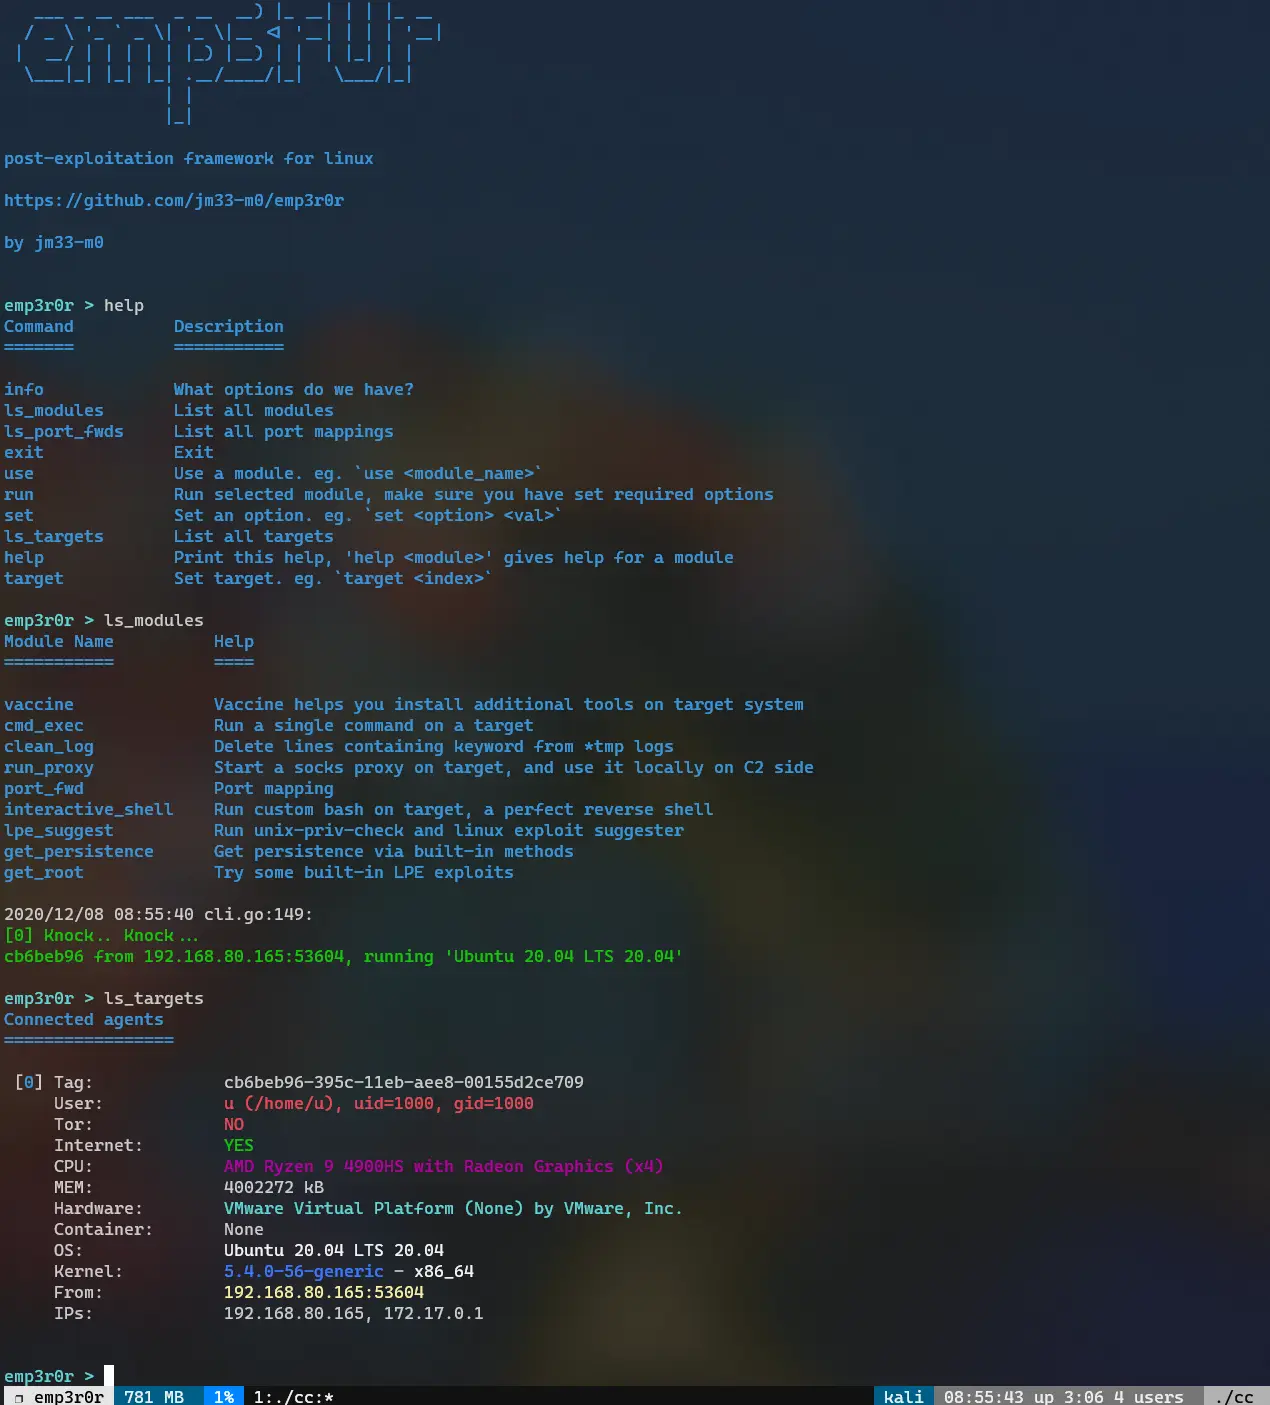
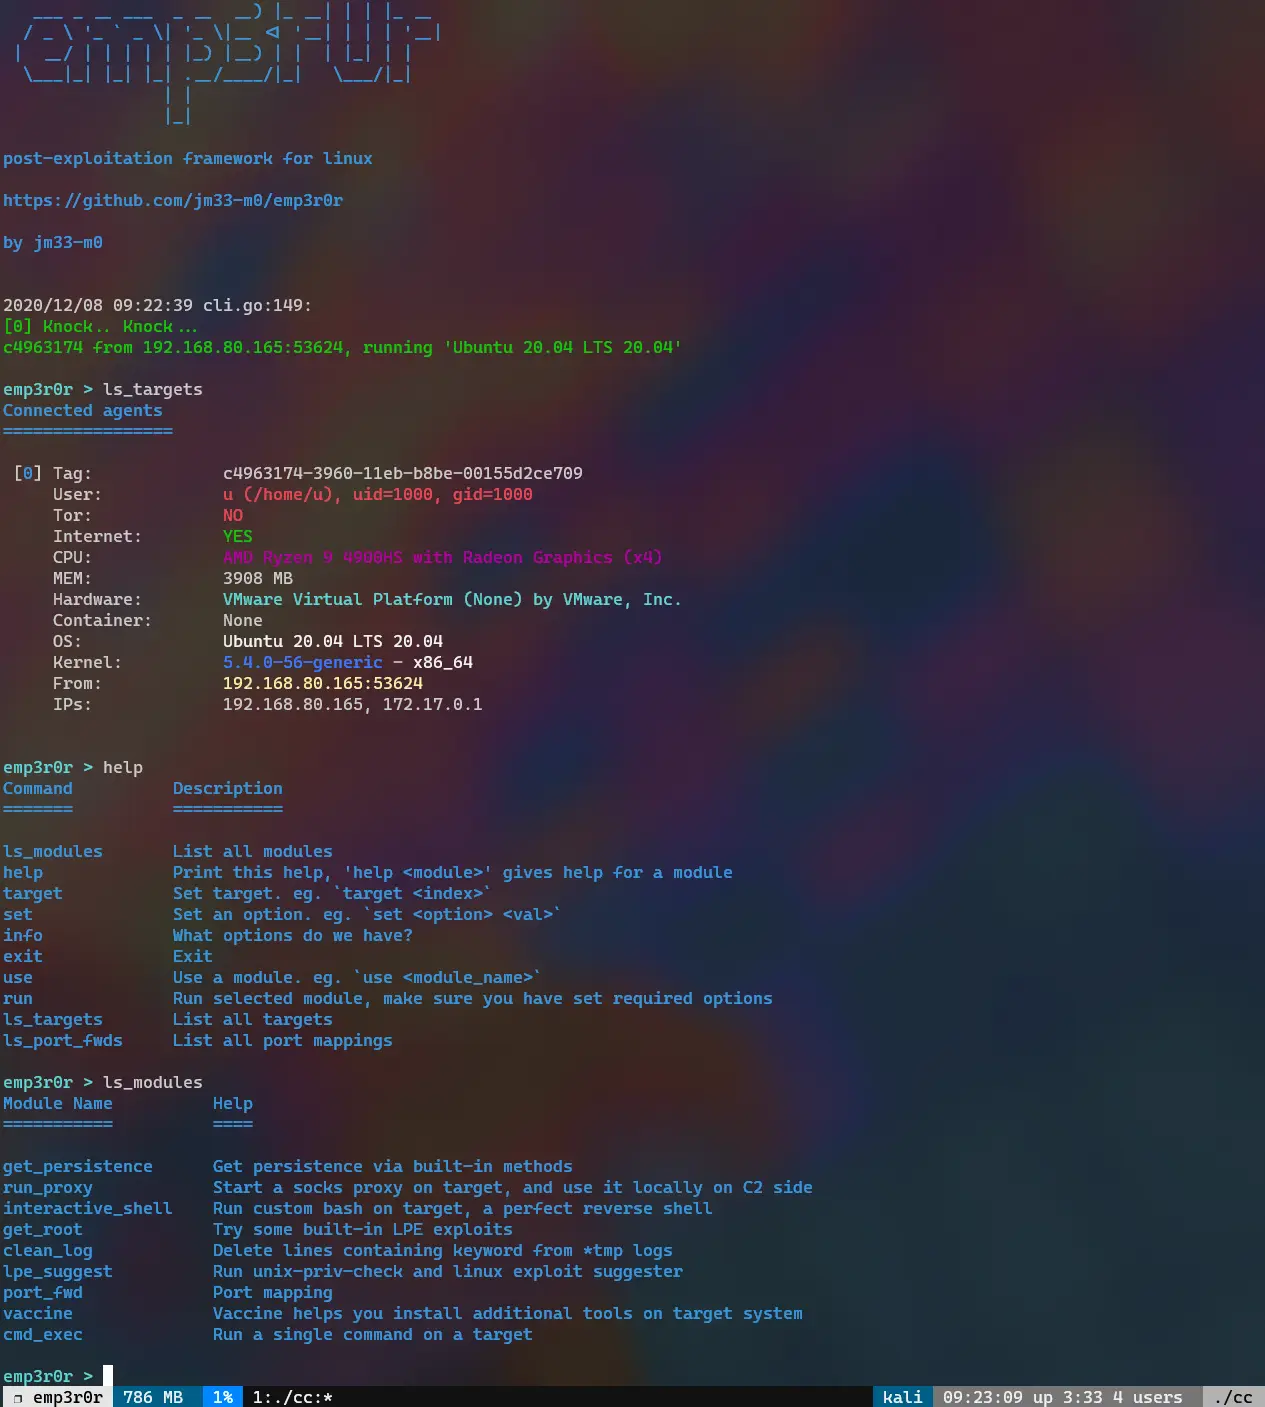
memsize: use MB instead of KB

diff --git a/core/internal/agent/util.go b/core/internal/agent/util.go
@@ -164,7 +164,7 @@ func CollectSystemInfo() *SystemInfo {
 	info.Kernel = si.Kernel.Release
 	info.Arch = si.Kernel.Architecture
 	info.CPU = fmt.Sprintf("%s (x%d)", si.CPU.Model, getCPUCnt())
-	info.Mem = fmt.Sprintf("%d kB", getMemSize())
+	info.Mem = fmt.Sprintf("%d MB", getMemSize())
 	info.Hardware = CheckProduct()
 	info.Container = CheckContainer()
 
@@ -240,8 +240,9 @@ func getMemSize() (size int) {
 
 		if lineSplit[0] == "MemTotal:" {
 			size, err = strconv.Atoi(lineSplit[1])
+			size /= 1024
 			if err != nil {
-				size = 0
+				size = -1
 			}
 		}
 	}
